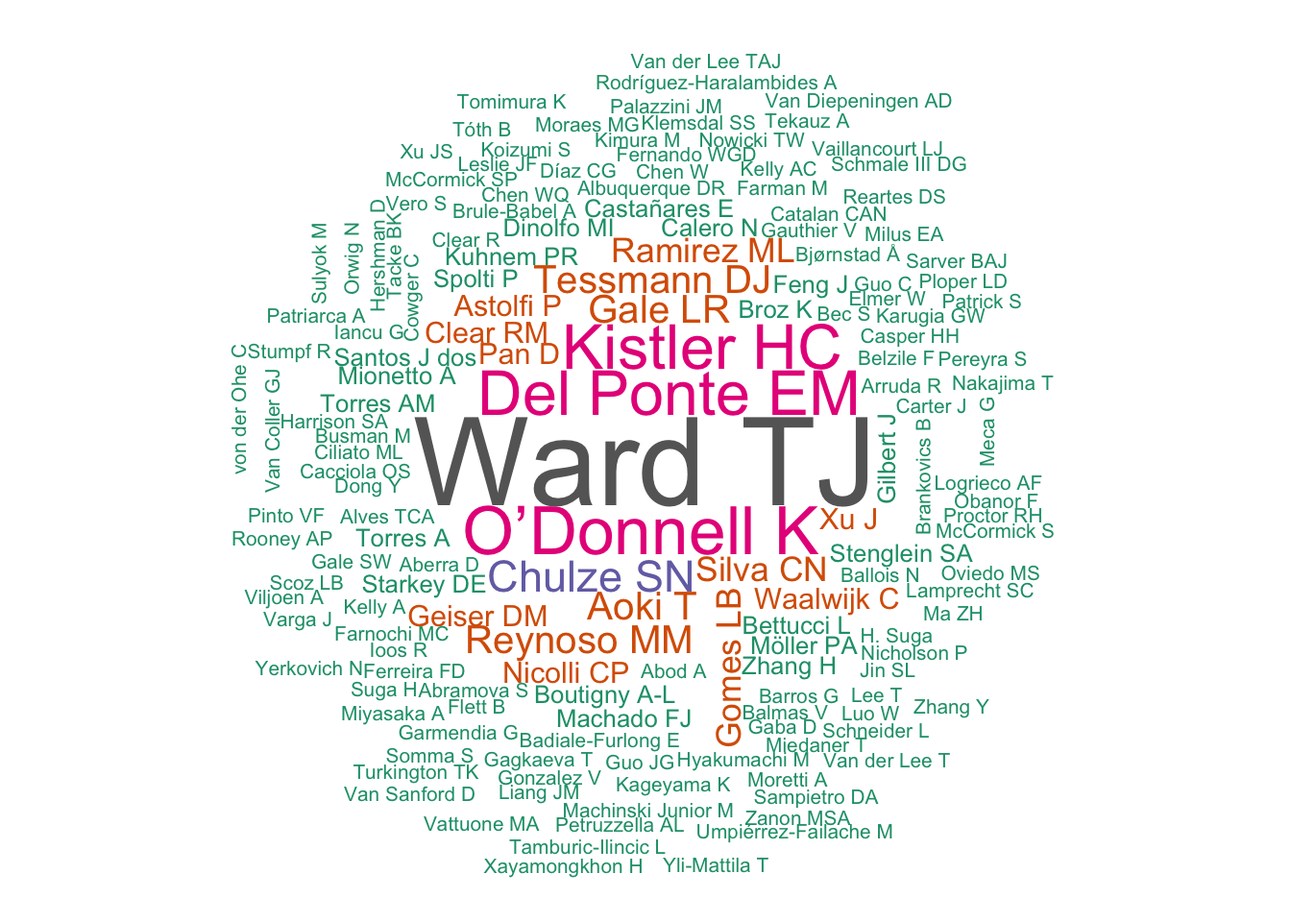
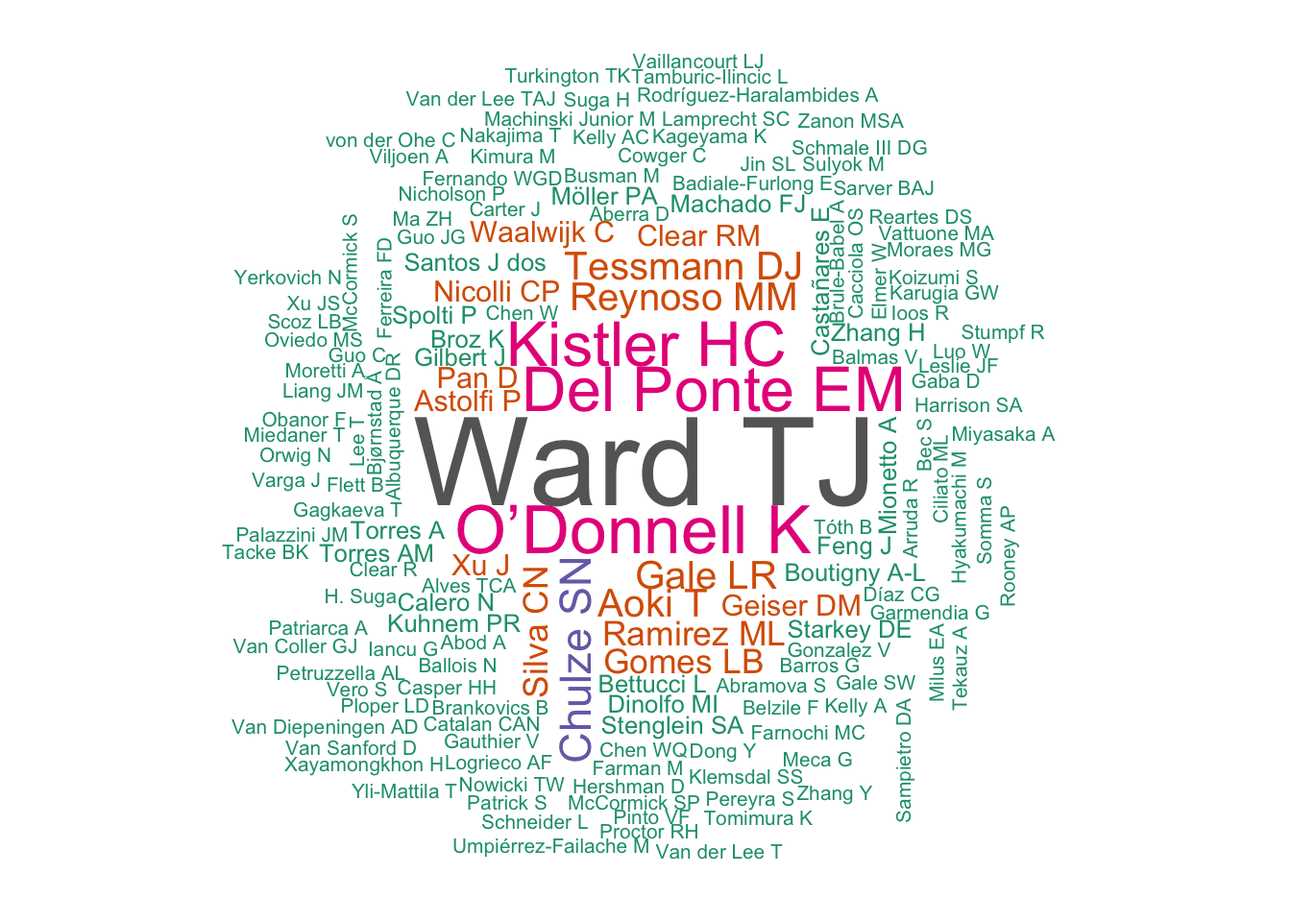
New site

Changed region(s): [[0.1562, 0.0625, 0.8125, 0.9688]]

diff --git a/website/network-FGSC.html b/website/network-FGSC.html
@@ -8,11 +8,11 @@
 </head>
 <body style="background-color:white;">
 <div id="htmlwidget_container">
-<div id="htmlwidget-a1290d3a42f0466f717e" class="forceNetwork html-widget" style="width:960px;height:500px;">
+<div id="htmlwidget-3ba6124009e966e28398" class="forceNetwork html-widget" style="width:960px;height:500px;">
 
 </div>
 </div>
-<script type="application/json" data-for="htmlwidget-a1290d3a42f0466f717e">{"x":{"links":{"source":[96,96,96,69,69,128,96,96,96,96,150,69,150,69,51,69,150,47,69,150,69,69,109,109,109,109,109,111,111,111,111,40,40,40,134,134,75,150,5,47,69,51,123,123,123,96,150,150,69,150,150,150,150,96,5,69,51,5,5,5,96,69,51,47,47,47,96,69,69,69,69,96,51,51,51,96,126,126,96,135,96,96,96,96,96,96,96,96,96,96,150,69,150,150,150,150,150,69,5,0,0,0,0,69,69,69,69,69,5,5,5,5,98,98,98,68,68,15,57,150,47,57,57,57,57,57,57,150,47,65,65,65,65,65,65,150,150,150,150,150,150,150,47,47,47,47,47,47,132,132,132,132,132,92,92,92,92,88,88,88,71,71,64,150,150,96,150,150,150,150,150,150,32,96,32,32,123,32,51,32,96,113,113,123,113,51,113,96,96,96,96,96,96,45,123,45,51,45,123,103,51,103,123,51,123,51,52,51,119,119,119,119,119,7,7,7,7,110,110,110,117,117,90,155,150,5,69,96,150,5,69,96,150,69,96,69,96,96,148,148,148,148,148,150,148,50,50,50,50,150,50,129,129,129,150,129,19,19,150,19,42,150,42,150,31,150,7,7,7,7,7,7,115,115,115,115,34,118,118,118,34,53,53,34,120,34,34,150,16,16,16,96,16,150,150,150,96,150,139,139,96,139,44,96,44,96,73,96,47,150,96,47,47,69,150,96,58,58,69,96,150,150,69,96,96,96,86,69,69,109,111,111,109,109,134,114,114,114,114,114,150,35,35,35,35,150,54,54,54,150,145,145,150,107,150,150,150,47,116,69,5,116,116,96,150,150,69,150,150,150,96,47,69,5,47,47,96,69,5,18,18,96,69,69,69,96,5,5,96,93,96,96,111,109,29,7,7,7,109,111,111,111,111,109,109,109,109,29,29,29,131,34,34,11,11,11,109,111,11,29,156,156,109,111,156,29,1,109,111,1,29,109,111,99,29,109,109,109,111,111,29,157,157,157,157,157,157,157,140,140,140,140,140,140,149,149,149,149,149,27,27,27,27,152,152,152,152,152,158,101,101,101,22,22,87,115,53,120,131,125,125,34,115,115,115,115,115,34,53,53,53,53,34,120,120,120,34,131,131,34,43,34,34,137,137,137,150,137,49,49,150,49,104,150,104,150,112,150,150,16,16,16,150,150,150,9,9,61,25,25,25,25,25,3,3,3,3,36,36,36,106,106,102,76,18,76,76,76,150,76,69,18,151,151,151,150,151,69,18,18,18,150,18,69,37,37,150,37,69,83,150,83,69,150,2,69,150,69,69,121,121,121,121,121,105,105,105,105,77,77,77,84,84,21,150,12,96,12,12,12,150,96,150,150,150,96,39,39,39,96,96,96,59,59,143,34,150,34,34,34,34,34,150,53,122,122,120,131,150,150,150,150,150,53,53,53,53,94,120,131,120,131,120,150,53,34,150,150,34,32,96,67,67,67,52,69,67,150,96,32,32,32,32,69,32,150,96,96,96,96,96,96,96,82,82,52,69,82,150,136,52,69,136,150,52,69,130,150,69,52,150,69,69,150,80,94,34,150,94,34,150,34,150,150,25,34,101,25,34,101,36,34,34,101,66,66,29,32,66,66,66,66,149,150,108,29,32,108,108,108,108,149,150,29,32,13,13,13,13,149,150,29,29,29,29,29,29,150,32,32,32,32,32,150,33,33,33,149,150,38,38,149,150,74,149,150,149,150,150,150,120,122,72,131,34,150,150,150,150,150,120,120,120,34,122,131,34,131,34,34,101,101,111,133,101,22,111,133,87,111,133,22,111,111,133,157,157,157,157,157,157,157,157,157,157,157,157,17,152,17,17,17,17,17,41,17,17,149,152,78,78,78,78,78,41,78,78,149,152,152,152,152,152,152,152,152,149,153,153,153,153,41,153,153,149,55,55,55,41,55,55,149,56,56,41,56,56,149,63,41,63,63,149,41,28,28,149,41,41,149,142,149,149,94,80,80,150,34,94,94,150,34,89,150,34,150,34,150,154,154,29,100,29,29],"target":[69,128,24,128,24,24,150,51,69,5,51,150,5,51,5,5,47,10,47,10,150,10,111,40,134,75,29,40,134,75,29,134,75,29,75,29,29,123,123,123,123,123,126,135,144,123,5,47,150,51,126,135,144,150,47,5,5,126,135,144,5,47,47,126,135,144,47,51,126,135,144,69,126,135,144,51,135,144,126,144,135,144,150,0,69,5,98,68,15,70,0,150,5,98,68,15,70,0,0,98,68,15,70,5,98,68,15,70,98,68,15,70,68,15,70,15,70,70,65,57,57,132,92,88,71,64,60,65,65,132,92,88,71,64,60,47,132,92,88,71,64,60,132,92,88,71,64,60,92,88,71,64,60,88,71,64,60,71,64,60,64,60,60,32,113,150,45,103,123,52,51,95,113,32,45,103,32,52,32,95,113,45,103,113,52,113,95,45,103,123,52,51,95,103,45,52,45,95,103,52,103,95,52,123,95,52,95,95,7,110,117,90,34,110,117,90,34,117,90,34,90,34,34,46,155,155,155,155,46,46,46,46,5,150,150,5,5,69,50,129,19,42,31,148,85,129,19,42,31,50,85,19,42,31,129,85,42,31,19,85,31,42,85,31,85,85,115,118,53,120,131,34,118,53,120,131,115,53,120,131,118,120,131,53,131,120,131,16,139,44,73,16,147,139,44,73,150,147,44,73,139,147,73,44,147,73,147,147,58,47,47,86,48,47,58,58,86,48,58,150,86,48,150,86,48,69,48,86,48,111,134,29,134,29,29,35,54,145,107,26,114,54,145,107,26,35,145,107,26,54,107,26,145,26,107,26,116,116,18,116,116,93,23,116,47,18,150,5,93,23,150,18,47,47,93,23,47,18,18,93,23,18,5,93,23,69,93,23,5,23,93,23,7,7,7,4,131,34,111,29,4,131,34,29,4,131,34,4,131,34,4,4,131,156,1,99,11,11,133,11,1,99,156,156,133,156,99,1,1,133,1,99,99,133,99,111,133,29,133,29,133,140,149,27,152,152,158,41,149,27,152,152,158,41,27,152,152,158,41,152,152,158,41,152,158,41,158,41,41,22,87,14,87,14,14,125,125,125,125,43,81,125,53,120,131,43,81,115,120,131,43,81,53,131,43,81,120,43,81,131,81,43,81,49,104,112,137,146,104,112,49,146,112,104,146,112,146,146,16,9,61,62,9,61,62,61,62,62,3,36,106,102,124,36,106,102,124,106,102,124,102,124,124,151,76,37,83,2,76,79,76,151,37,83,2,151,79,151,37,83,2,18,79,18,83,2,37,79,37,2,83,79,83,2,79,2,79,150,79,105,77,84,21,91,77,84,21,91,84,21,91,21,91,91,12,39,12,59,143,138,39,150,59,143,138,39,59,143,138,59,143,138,143,138,138,122,34,53,94,72,120,131,122,122,94,72,122,122,53,94,72,120,131,94,72,120,131,72,94,94,72,72,131,53,8,53,8,34,8,67,67,82,136,130,67,67,20,67,32,82,136,130,52,32,20,32,82,136,130,52,69,20,150,136,130,82,82,20,82,130,136,136,20,136,130,130,20,130,52,20,52,20,150,20,89,80,80,80,89,89,89,94,94,34,36,25,25,124,36,36,124,101,124,124,108,13,66,66,33,38,74,97,66,66,13,108,108,33,38,74,97,108,108,13,13,33,38,74,97,13,13,32,33,38,74,97,149,29,33,38,74,97,149,32,38,74,97,33,33,74,97,38,38,97,74,74,97,97,149,72,72,72,30,72,72,120,122,30,131,34,122,30,131,120,30,122,122,30,30,131,87,22,101,101,14,87,87,87,14,22,22,14,133,14,14,17,78,152,153,55,56,63,28,41,142,141,149,78,17,153,55,56,63,28,17,142,141,17,78,153,55,56,63,28,78,142,141,78,153,55,56,63,28,41,142,141,152,55,56,63,28,153,142,141,153,56,63,28,55,142,141,55,63,28,56,142,141,56,28,63,142,141,63,28,142,141,28,142,141,41,141,142,141,80,89,6,80,80,89,6,94,94,6,89,89,6,6,34,100,127,154,127,100,127],"value":[1,1,1,1,1,1,1,1,1,1,1,1,1,1,1,1,1,1,1,1,1,1,1,1,1,1,1,1,1,1,1,1,1,1,1,1,1,1,1,1,1,1,1,1,1,1,1,1,1,1,1,1,1,1,1,1,1,1,1,1,1,1,1,1,1,1,1,1,1,1,1,1,1,1,1,1,1,1,1,1,1,1,1,1,1,1,1,1,1,1,1,1,1,1,1,1,1,1,1,1,1,1,1,1,1,1,1,1,1,1,1,1,1,1,1,1,1,1,1,1,1,1,1,1,1,1,1,1,1,1,1,1,1,1,1,1,1,1,1,1,1,1,1,1,1,1,1,1,1,1,1,1,1,1,1,1,1,1,1,1,1,1,1,1,1,1,1,1,1,1,1,1,1,1,1,1,1,1,1,1,1,1,1,1,1,1,1,1,1,1,1,1,1,1,1,1,1,1,1,1,1,1,1,1,1,1,1,1,1,1,1,1,1,1,1,1,1,1,1,1,1,1,1,1,1,1,1,1,1,1,1,1,1,1,1,1,1,1,1,1,1,1,1,1,1,1,1,1,1,1,1,1,1,1,1,1,1,1,1,1,1,1,1,1,1,1,1,1,1,1,1,1,1,1,1,1,1,1,1,1,1,1,1,1,1,1,1,1,1,1,1,1,1,1,1,1,1,1,1,1,1,1,1,1,1,1,1,1,1,1,1,1,1,1,1,1,1,1,1,1,1,1,1,1,1,1,1,1,1,1,1,1,1,1,1,1,1,1,1,1,1,1,1,1,1,1,1,1,1,1,1,1,1,1,1,1,1,1,1,1,1,1,1,1,1,1,1,1,1,1,1,1,1,1,1,1,1,1,1,1,1,1,1,1,1,1,1,1,1,1,1,1,1,1,1,1,1,1,1,1,1,1,1,1,1,1,1,1,1,1,1,1,1,1,1,1,1,1,1,1,1,1,1,1,1,1,1,1,1,1,1,1,1,1,1,1,1,1,1,1,1,1,1,1,1,1,1,1,1,1,1,1,1,1,1,1,1,1,1,1,1,1,1,1,1,1,1,1,1,1,1,1,1,1,1,1,1,1,1,1,1,1,1,1,1,1,1,1,1,1,1,1,1,1,1,1,1,1,1,1,1,1,1,1,1,1,1,1,1,1,1,1,1,1,1,1,1,1,1,1,1,1,1,1,1,1,1,1,1,1,1,1,1,1,1,1,1,1,1,1,1,1,1,1,1,1,1,1,1,1,1,1,1,1,1,1,1,1,1,1,1,1,1,1,1,1,1,1,1,1,1,1,1,1,1,1,1,1,1,1,1,1,1,1,1,1,1,1,1,1,1,1,1,1,1,1,1,1,1,1,1,1,1,1,1,1,1,1,1,1,1,1,1,1,1,1,1,1,1,1,1,1,1,1,1,1,1,1,1,1,1,1,1,1,1,1,1,1,1,1,1,1,1,1,1,1,1,1,1,1,1,1,1,1,1,1,1,1,1,1,1,1,1,1,1,1,1,1,1,1,1,1,1,1,1,1,1,1,1,1,1,1,1,1,1,1,1,1,1,1,1,1,1,1,1,1,1,1,1,1,1,1,1,1,1,1,1,1,1,1,1,1,1,1,1,1,1,1,1,1,1,1,1,1,1,1,1,1,1,1,1,1,1,1,1,1,1,1,1,1,1,1,1,1,1,1,1,1,1,1,1,1,1,1,1,1,1,1,1,1,1,1,1,1,1,1,1,1,1,1,1,1,1,1,1,1,1,1,1,1,1,1,1,1,1,1,1,1,1,1,1,1,1,1,1,1,1,1,1,1,1,1,1,1,1,1,1,1,1,1,1,1,1,1,1,1,1,1,1,1,1,1,1,1,1,1,1,1,1,1,1,1,1,1,1,1,1,1,1,1,1,1,1,1,1,1,1,1,1,1,1,1,1,1,1,1,1,1,1,1,1,1,1,1,1,1,1,1,1,1,1,1,1,1,1,1,1,1,1,1,1,1,1,1,1,1,1,1,1,1,1,1,1,1,1,1,1,1,1,1,1,1,1,1],"colour":["lightgrey","lightgrey","lightgrey","lightgrey","lightgrey","lightgrey","lightgrey","lightgrey","lightgrey","lightgrey","lightgrey","lightgrey","lightgrey","lightgrey","lightgrey","lightgrey","lightgrey","lightgrey","lightgrey","lightgrey","lightgrey","lightgrey","lightgrey","lightgrey","lightgrey","lightgrey","lightgrey","lightgrey","lightgrey","lightgrey","lightgrey","lightgrey","lightgrey","lightgrey","lightgrey","lightgrey","lightgrey","lightgrey","lightgrey","lightgrey","lightgrey","lightgrey","lightgrey","lightgrey","lightgrey","lightgrey","lightgrey","lightgrey","lightgrey","lightgrey","lightgrey","lightgrey","lightgrey","lightgrey","lightgrey","lightgrey","lightgrey","lightgrey","lightgrey","lightgrey","lightgrey","lightgrey","lightgrey","lightgrey","lightgrey","lightgrey","lightgrey","lightgrey","lightgrey","lightgrey","lightgrey","lightgrey","lightgrey","lightgrey","lightgrey","lightgrey","lightgrey","lightgrey","lightgrey","lightgrey","lightgrey","lightgrey","lightgrey","lightgrey","lightgrey","lightgrey","lightgrey","lightgrey","lightgrey","lightgrey","lightgrey","lightgrey","lightgrey","lightgrey","lightgrey","lightgrey","lightgrey","lightgrey","lightgrey","lightgrey","lightgrey","lightgrey","lightgrey","lightgrey","lightgrey","lightgrey","lightgrey","lightgrey","lightgrey","lightgrey","lightgrey","lightgrey","lightgrey","lightgrey","lightgrey","lightgrey","lightgrey","lightgrey","lightgrey","lightgrey","lightgrey","lightgrey","lightgrey","lightgrey","lightgrey","lightgrey","lightgrey","lightgrey","lightgrey","lightgrey","lightgrey","lightgrey","lightgrey","lightgrey","lightgrey","lightgrey","lightgrey","lightgrey","lightgrey","lightgrey","lightgrey","lightgrey","lightgrey","lightgrey","lightgrey","lightgrey","lightgrey","lightgrey","lightgrey","lightgrey","lightgrey","lightgrey","lightgrey","lightgrey","lightgrey","lightgrey","lightgrey","lightgrey","lightgrey","lightgrey","lightgrey","lightgrey","lightgrey","lightgrey","lightgrey","lightgrey","lightgrey","lightgrey","lightgrey","lightgrey","lightgrey","lightgrey","lightgrey","lightgrey","lightgrey","lightgrey","lightgrey","lightgrey","lightgrey","lightgrey","lightgrey","lightgrey","lightgrey","lightgrey","lightgrey","lightgrey","lightgrey","lightgrey","lightgrey","lightgrey","lightgrey","lightgrey","lightgrey","lightgrey","lightgrey","lightgrey","lightgrey","lightgrey","lightgrey","lightgrey","lightgrey","lightgrey","lightgrey","lightgrey","lightgrey","lightgrey","lightgrey","lightgrey","lightgrey","lightgrey","lightgrey","lightgrey","lightgrey","lightgrey","lightgrey","lightgrey","lightgrey","lightgrey","lightgrey","lightgrey","lightgrey","lightgrey","lightgrey","lightgrey","lightgrey","lightgrey","lightgrey","lightgrey","lightgrey","lightgrey","lightgrey","lightgrey","lightgrey","lightgrey","lightgrey","lightgrey","lightgrey","lightgrey","lightgrey","lightgrey","lightgrey","lightgrey","lightgrey","lightgrey","lightgrey","lightgrey","lightgrey","lightgrey","lightgrey","lightgrey","lightgrey","lightgrey","lightgrey","lightgrey","lightgrey","lightgrey","lightgrey","lightgrey","lightgrey","lightgrey","lightgrey","lightgrey","lightgrey","lightgrey","lightgrey","lightgrey","lightgrey","lightgrey","lightgrey","lightgrey","lightgrey","lightgrey","lightgrey","lightgrey","lightgrey","lightgrey","lightgrey","lightgrey","lightgrey","lightgrey","lightgrey","lightgrey","lightgrey","lightgrey","lightgrey","lightgrey","lightgrey","lightgrey","lightgrey","lightgrey","lightgrey","lightgrey","lightgrey","lightgrey","lightgrey","lightgrey","lightgrey","lightgrey","lightgrey","lightgrey","lightgrey","lightgrey","lightgrey","lightgrey","lightgrey","lightgrey","lightgrey","lightgrey","lightgrey","lightgrey","lightgrey","lightgrey","lightgrey","lightgrey","lightgrey","lightgrey","lightgrey","lightgrey","lightgrey","lightgrey","lightgrey","lightgrey","lightgrey","lightgrey","lightgrey","lightgrey","lightgrey","lightgrey","lightgrey","lightgrey","lightgrey","lightgrey","lightgrey","lightgrey","lightgrey","lightgrey","lightgrey","lightgrey","lightgrey","lightgrey","lightgrey","lightgrey","lightgrey","lightgrey","lightgrey","lightgrey","lightgrey","lightgrey","lightgrey","lightgrey","lightgrey","lightgrey","lightgrey","lightgrey","lightgrey","lightgrey","lightgrey","lightgrey","lightgrey","lightgrey","lightgrey","lightgrey","lightgrey","lightgrey","lightgrey","lightgrey","lightgrey","lightgrey","lightgrey","lightgrey","lightgrey","lightgrey","lightgrey","lightgrey","lightgrey","lightgrey","lightgrey","lightgrey","lightgrey","lightgrey","lightgrey","lightgrey","lightgrey","lightgrey","lightgrey","lightgrey","lightgrey","lightgrey","lightgrey","lightgrey","lightgrey","lightgrey","lightgrey","lightgrey","lightgrey","lightgrey","lightgrey","lightgrey","lightgrey","lightgrey","lightgrey","lightgrey","lightgrey","lightgrey","lightgrey","lightgrey","lightgrey","lightgrey","lightgrey","lightgrey","lightgrey","lightgrey","lightgrey","lightgrey","lightgrey","lightgrey","lightgrey","lightgrey","lightgrey","lightgrey","lightgrey","lightgrey","lightgrey","lightgrey","lightgrey","lightgrey","lightgrey","lightgrey","lightgrey","lightgrey","lightgrey","lightgrey","lightgrey","lightgrey","lightgrey","lightgrey","lightgrey","lightgrey","lightgrey","lightgrey","lightgrey","lightgrey","lightgrey","lightgrey","lightgrey","lightgrey","lightgrey","lightgrey","lightgrey","lightgrey","lightgrey","lightgrey","lightgrey","lightgrey","lightgrey","lightgrey","lightgrey","lightgrey","lightgrey","lightgrey","lightgrey","lightgrey","lightgrey","lightgrey","lightgrey","lightgrey","lightgrey","lightgrey","lightgrey","lightgrey","lightgrey","lightgrey","lightgrey","lightgrey","lightgrey","lightgrey","lightgrey","lightgrey","lightgrey","lightgrey","lightgrey","lightgrey","lightgrey","lightgrey","lightgrey","lightgrey","lightgrey","lightgrey","lightgrey","lightgrey","lightgrey","lightgrey","lightgrey","lightgrey","lightgrey","lightgrey","lightgrey","lightgrey","lightgrey","lightgrey","lightgrey","lightgrey","lightgrey","lightgrey","lightgrey","lightgrey","lightgrey","lightgrey","lightgrey","lightgrey","lightgrey","lightgrey","lightgrey","lightgrey","lightgrey","lightgrey","lightgrey","lightgrey","lightgrey","lightgrey","lightgrey","lightgrey","lightgrey","lightgrey","lightgrey","lightgrey","lightgrey","lightgrey","lightgrey","lightgrey","lightgrey","lightgrey","lightgrey","lightgrey","lightgrey","lightgrey","lightgrey","lightgrey","lightgrey","lightgrey","lightgrey","lightgrey","lightgrey","lightgrey","lightgrey","lightgrey","lightgrey","lightgrey","lightgrey","lightgrey","lightgrey","lightgrey","lightgrey","lightgrey","lightgrey","lightgrey","lightgrey","lightgrey","lightgrey","lightgrey","lightgrey","lightgrey","lightgrey","lightgrey","lightgrey","lightgrey","lightgrey","lightgrey","lightgrey","lightgrey","lightgrey","lightgrey","lightgrey","lightgrey","lightgrey","lightgrey","lightgrey","lightgrey","lightgrey","lightgrey","lightgrey","lightgrey","lightgrey","lightgrey","lightgrey","lightgrey","lightgrey","lightgrey","lightgrey","lightgrey","lightgrey","lightgrey","lightgrey","lightgrey","lightgrey","lightgrey","lightgrey","lightgrey","lightgrey","lightgrey","lightgrey","lightgrey","lightgrey","lightgrey","lightgrey","lightgrey","lightgrey","lightgrey","lightgrey","lightgrey","lightgrey","lightgrey","lightgrey","lightgrey","lightgrey","lightgrey","lightgrey","lightgrey","lightgrey","lightgrey","lightgrey","lightgrey","lightgrey","lightgrey","lightgrey","lightgrey","lightgrey","lightgrey","lightgrey","lightgrey","lightgrey","lightgrey","lightgrey","lightgrey","lightgrey","lightgrey","lightgrey","lightgrey","lightgrey","lightgrey","lightgrey","lightgrey","lightgrey","lightgrey","lightgrey","lightgrey","lightgrey","lightgrey","lightgrey","lightgrey","lightgrey","lightgrey","lightgrey","lightgrey","lightgrey","lightgrey","lightgrey","lightgrey","lightgrey","lightgrey","lightgrey","lightgrey","lightgrey","lightgrey","lightgrey","lightgrey","lightgrey","lightgrey","lightgrey","lightgrey","lightgrey","lightgrey","lightgrey","lightgrey","lightgrey","lightgrey","lightgrey","lightgrey","lightgrey","lightgrey","lightgrey","lightgrey","lightgrey","lightgrey","lightgrey","lightgrey","lightgrey","lightgrey","lightgrey","lightgrey","lightgrey","lightgrey","lightgrey","lightgrey","lightgrey","lightgrey","lightgrey","lightgrey","lightgrey","lightgrey","lightgrey","lightgrey","lightgrey","lightgrey","lightgrey","lightgrey","lightgrey","lightgrey","lightgrey","lightgrey","lightgrey","lightgrey","lightgrey","lightgrey","lightgrey","lightgrey","lightgrey","lightgrey","lightgrey","lightgrey","lightgrey","lightgrey","lightgrey","lightgrey","lightgrey","lightgrey","lightgrey","lightgrey","lightgrey","lightgrey","lightgrey","lightgrey","lightgrey","lightgrey","lightgrey","lightgrey","lightgrey","lightgrey","lightgrey","lightgrey","lightgrey","lightgrey","lightgrey","lightgrey","lightgrey","lightgrey","lightgrey","lightgrey","lightgrey","lightgrey","lightgrey","lightgrey","lightgrey","lightgrey","lightgrey","lightgrey","lightgrey","lightgrey","lightgrey","lightgrey","lightgrey","lightgrey","lightgrey","lightgrey","lightgrey","lightgrey","lightgrey","lightgrey","lightgrey","lightgrey","lightgrey","lightgrey","lightgrey","lightgrey","lightgrey","lightgrey","lightgrey","lightgrey","lightgrey","lightgrey","lightgrey","lightgrey","lightgrey","lightgrey","lightgrey","lightgrey","lightgrey","lightgrey","lightgrey","lightgrey","lightgrey","lightgrey","lightgrey","lightgrey","lightgrey","lightgrey","lightgrey","lightgrey","lightgrey","lightgrey","lightgrey","lightgrey","lightgrey","lightgrey","lightgrey","lightgrey","lightgrey","lightgrey","lightgrey","lightgrey","lightgrey","lightgrey","lightgrey","lightgrey","lightgrey","lightgrey","lightgrey","lightgrey","lightgrey","lightgrey","lightgrey","lightgrey","lightgrey","lightgrey","lightgrey","lightgrey","lightgrey","lightgrey","lightgrey","lightgrey","lightgrey","lightgrey","lightgrey","lightgrey","lightgrey","lightgrey","lightgrey","lightgrey","lightgrey","lightgrey","lightgrey","lightgrey","lightgrey","lightgrey","lightgrey","lightgrey","lightgrey","lightgrey","lightgrey","lightgrey","lightgrey","lightgrey","lightgrey","lightgrey","lightgrey","lightgrey","lightgrey","lightgrey","lightgrey","lightgrey","lightgrey","lightgrey","lightgrey","lightgrey","lightgrey","lightgrey","lightgrey","lightgrey","lightgrey","lightgrey","lightgrey","lightgrey","lightgrey","lightgrey","lightgrey","lightgrey","lightgrey","lightgrey","lightgrey","lightgrey","lightgrey","lightgrey","lightgrey","lightgrey","lightgrey","lightgrey","lightgrey","lightgrey","lightgrey","lightgrey","lightgrey","lightgrey","lightgrey","lightgrey","lightgrey","lightgrey","lightgrey","lightgrey","lightgrey","lightgrey","lightgrey","lightgrey","lightgrey","lightgrey"]},"nodes":{"name":["Aberra D","Abod A","Abramova S","Albuquerque DR","Alves TCA","Aoki T","Arruda R","Astolfi P","Badiale-Furlong E","Ballois N","Balmas V","Barros G","Bec S","Belzile F","Bettucci L","Bjørnstad Å","Boutigny A-L","Brankovics B","Broz K","Brule-Babel A","Busman M","Cacciola OS","Calero N","Carter J","Casper HH","Castañares E","Catalan CAN","Chen W","Chen WQ","Chulze SN","Ciliato ML","Clear R","Clear RM","Cowger C","Del Ponte EM","Díaz CG","Dinolfo MI","Dong Y","Elmer W","Farman M","Farnochi MC","Feng J","Fernando WGD","Ferreira FD","Flett B","Gaba D","Gagkaeva T","Gale LR","Gale SW","Garmendia G","Gauthier V","Geiser DM","Gilbert J","Gomes LB","Gonzalez V","Guo C","Guo JG","H. Suga","Harrison SA","Hershman D","Hyakumachi M","Iancu G","Ioos R","Jin SL","Kageyama K","Karugia GW","Kelly A","Kelly AC","Kimura M","Kistler HC","Klemsdal SS","Koizumi S","Kuhnem PR","Lamprecht SC","Lee T","Leslie JF","Liang JM","Logrieco AF","Luo W","Ma ZH","Machado FJ","Machinski Junior M","McCormick S","McCormick SP","Meca G","Miedaner T","Milus EA","Mionetto A","Miyasaka A","Möller PA","Moraes MG","Moretti A","Nakajima T","Nicholson P","Nicolli CP","Nowicki TW","O’Donnell K","Obanor F","Orwig N","Oviedo MS","Palazzini JM","Pan D","Patriarca A","Patrick S","Pereyra S","Petruzzella AL","Pinto VF","Ploper LD","Proctor RH","Ramirez ML","Reartes DS","Reynoso MM","Rodríguez-Haralambides A","Rooney AP","Sampietro DA","Santos J dos","Sarver BAJ","Schmale III DG","Schneider L","Scoz LB","Silva CN","Somma S","Spolti P","Starkey DE","Stenglein SA","Stumpf R","Suga H","Sulyok M","Tacke BK","Tamburic-Ilincic L","Tekauz A","Tessmann DJ","Tomimura K","Torres A","Torres AM","Tóth B","Turkington TK","Umpiérrez-Failache M","Vaillancourt LJ","Van Coller GJ","Van der Lee T","Van der Lee TAJ","Van Diepeningen AD","Van Sanford D","Varga J","Vattuone MA","Vero S","Viljoen A","von der Ohe C","Waalwijk C","Ward TJ","Xayamongkhon H","Xu J","Xu JS","Yerkovich N","Yli-Mattila T","Zanon MSA","Zhang H","Zhang Y"],"group":[1,1,1,1,1,1,1,1,1,1,1,1,1,1,1,1,1,1,1,1,1,1,1,1,1,1,1,1,1,1,1,1,1,1,1,1,1,1,1,1,1,1,1,1,1,1,1,1,1,1,1,1,1,1,1,1,1,1,1,1,1,1,1,1,1,1,1,1,1,1,1,1,1,1,1,1,1,1,1,1,1,1,1,1,1,1,1,1,1,1,1,1,1,1,1,1,1,1,1,1,1,1,1,1,1,1,1,1,1,1,1,1,1,1,1,1,1,1,1,1,1,1,1,1,1,1,1,1,1,1,1,1,1,1,1,1,1,1,1,1,1,1,1,1,1,1,1,1,1,1,1,1,1,1,1,1,1,1,1],"nodesize":[8,8,8,8,8,8,8,8,8,8,8,8,8,8,8,8,8,8,8,8,8,8,8,8,8,8,8,8,8,8,8,8,8,8,8,8,8,8,8,8,8,8,8,8,8,8,8,8,8,8,8,8,8,8,8,8,8,8,8,8,8,8,8,8,8,8,8,8,8,8,8,8,8,8,8,8,8,8,8,8,8,8,8,8,8,8,8,8,8,8,8,8,8,8,8,8,8,8,8,8,8,8,8,8,8,8,8,8,8,8,8,8,8,8,8,8,8,8,8,8,8,8,8,8,8,8,8,8,8,8,8,8,8,8,8,8,8,8,8,8,8,8,8,8,8,8,8,8,8,8,8,8,8,8,8,8,8,8,8]},"options":{"NodeID":"name","Group":"group","colourScale":"d3.scaleOrdinal(['black'])","fontSize":13,"fontFamily":"Arial","clickTextSize":32.5,"linkDistance":80,"linkWidth":"'1.5px'.toString()","charge":-200,"opacity":1,"zoom":true,"legend":false,"arrows":false,"nodesize":true,"radiusCalculation":"d.nodesize","bounded":false,"opacityNoHover":1,"clickAction":null}},"evals":[],"jsHooks":[]}</script>
-<script type="application/htmlwidget-sizing" data-for="htmlwidget-a1290d3a42f0466f717e">{"viewer":{"width":450,"height":350,"padding":10,"fill":true},"browser":{"width":960,"height":500,"padding":10,"fill":true}}</script>
+<script type="application/json" data-for="htmlwidget-3ba6124009e966e28398">{"x":{"links":{"source":[96,96,96,69,69,128,96,96,96,96,150,69,150,69,51,69,150,47,69,150,69,69,109,109,109,109,109,111,111,111,111,40,40,40,134,134,75,150,5,47,69,51,123,123,123,96,150,150,69,150,150,150,150,96,5,69,51,5,5,5,96,69,51,47,47,47,96,69,69,69,69,96,51,51,51,96,126,126,96,135,96,96,96,96,96,96,96,96,96,96,150,69,150,150,150,150,150,69,5,0,0,0,0,69,69,69,69,69,5,5,5,5,98,98,98,68,68,15,57,150,47,57,57,57,57,57,57,150,47,65,65,65,65,65,65,150,150,150,150,150,150,150,47,47,47,47,47,47,132,132,132,132,132,92,92,92,92,88,88,88,71,71,64,150,150,96,150,150,150,150,150,150,32,96,32,32,123,32,51,32,96,113,113,123,113,51,113,96,96,96,96,96,96,45,123,45,51,45,123,103,51,103,123,51,123,51,52,51,119,119,119,119,119,7,7,7,7,110,110,110,117,117,90,155,150,5,69,96,150,5,69,96,150,69,96,69,96,96,148,148,148,148,148,150,148,50,50,50,50,150,50,129,129,129,150,129,19,19,150,19,42,150,42,150,31,150,7,7,7,7,7,7,115,115,115,115,34,118,118,118,34,53,53,34,120,34,34,150,16,16,16,96,16,150,150,150,96,150,139,139,96,139,44,96,44,96,73,96,47,150,96,47,47,69,150,96,58,58,69,96,150,150,69,96,96,96,86,69,69,109,111,111,109,109,134,114,114,114,114,114,150,35,35,35,35,150,54,54,54,150,145,145,150,107,150,150,150,47,116,69,5,116,116,96,150,150,69,150,150,150,96,47,69,5,47,47,96,69,5,18,18,96,69,69,69,96,5,5,96,93,96,96,111,109,29,7,7,7,109,111,111,111,111,109,109,109,109,29,29,29,131,34,34,11,11,11,109,111,11,29,156,156,109,111,156,29,1,109,111,1,29,109,111,99,29,109,109,109,111,111,29,157,157,157,157,157,157,157,140,140,140,140,140,140,149,149,149,149,149,27,27,27,27,152,152,152,152,152,158,101,101,101,22,22,87,115,53,120,131,125,125,34,115,115,115,115,115,34,53,53,53,53,34,120,120,120,34,131,131,34,43,34,34,137,137,137,150,137,49,49,150,49,104,150,104,150,112,150,150,16,16,16,150,150,150,9,9,61,25,25,25,25,25,3,3,3,3,36,36,36,106,106,102,76,18,76,76,76,150,76,69,18,151,151,151,150,151,69,18,18,18,150,18,69,37,37,150,37,69,83,150,83,69,150,2,69,150,69,69,121,121,121,121,121,105,105,105,105,77,77,77,84,84,21,150,12,96,12,12,12,150,96,150,150,150,96,39,39,39,96,96,96,59,59,143,34,150,34,34,34,34,34,150,53,122,122,120,131,150,150,150,150,150,53,53,53,53,94,120,131,120,131,120,150,53,34,150,150,34,32,96,67,67,67,52,69,67,150,96,32,32,32,32,69,32,150,96,96,96,96,96,96,96,82,82,52,69,82,150,136,52,69,136,150,52,69,130,150,69,52,150,69,69,150,80,94,34,150,94,34,150,34,150,150,25,34,101,25,34,101,36,34,34,101,66,66,29,32,66,66,66,66,149,150,108,29,32,108,108,108,108,149,150,29,32,13,13,13,13,149,150,29,29,29,29,29,29,150,32,32,32,32,32,150,33,33,33,149,150,38,38,149,150,74,149,150,149,150,150,150,120,122,72,131,34,150,150,150,150,150,120,120,120,34,122,131,34,131,34,34,101,101,111,133,101,22,111,133,87,111,133,22,111,111,133,157,157,157,157,157,157,157,157,157,157,157,157,17,152,17,17,17,17,17,41,17,17,149,152,78,78,78,78,78,41,78,78,149,152,152,152,152,152,152,152,152,149,153,153,153,153,41,153,153,149,55,55,55,41,55,55,149,56,56,41,56,56,149,63,41,63,63,149,41,28,28,149,41,41,149,142,149,149,94,80,80,150,34,94,94,150,34,89,150,34,150,34,150,154,154,29,100,29,29],"target":[69,128,24,128,24,24,150,51,69,5,51,150,5,51,5,5,47,10,47,10,150,10,111,40,134,75,29,40,134,75,29,134,75,29,75,29,29,123,123,123,123,123,126,135,144,123,5,47,150,51,126,135,144,150,47,5,5,126,135,144,5,47,47,126,135,144,47,51,126,135,144,69,126,135,144,51,135,144,126,144,135,144,150,0,69,5,98,68,15,70,0,150,5,98,68,15,70,0,0,98,68,15,70,5,98,68,15,70,98,68,15,70,68,15,70,15,70,70,65,57,57,132,92,88,71,64,60,65,65,132,92,88,71,64,60,47,132,92,88,71,64,60,132,92,88,71,64,60,92,88,71,64,60,88,71,64,60,71,64,60,64,60,60,32,113,150,45,103,123,52,51,95,113,32,45,103,32,52,32,95,113,45,103,113,52,113,95,45,103,123,52,51,95,103,45,52,45,95,103,52,103,95,52,123,95,52,95,95,7,110,117,90,34,110,117,90,34,117,90,34,90,34,34,46,155,155,155,155,46,46,46,46,5,150,150,5,5,69,50,129,19,42,31,148,85,129,19,42,31,50,85,19,42,31,129,85,42,31,19,85,31,42,85,31,85,85,115,118,53,120,131,34,118,53,120,131,115,53,120,131,118,120,131,53,131,120,131,16,139,44,73,16,147,139,44,73,150,147,44,73,139,147,73,44,147,73,147,147,58,47,47,86,48,47,58,58,86,48,58,150,86,48,150,86,48,69,48,86,48,111,134,29,134,29,29,35,54,145,107,26,114,54,145,107,26,35,145,107,26,54,107,26,145,26,107,26,116,116,18,116,116,93,23,116,47,18,150,5,93,23,150,18,47,47,93,23,47,18,18,93,23,18,5,93,23,69,93,23,5,23,93,23,7,7,7,4,131,34,111,29,4,131,34,29,4,131,34,4,131,34,4,4,131,156,1,99,11,11,133,11,1,99,156,156,133,156,99,1,1,133,1,99,99,133,99,111,133,29,133,29,133,140,149,27,152,152,158,41,149,27,152,152,158,41,27,152,152,158,41,152,152,158,41,152,158,41,158,41,41,22,87,14,87,14,14,125,125,125,125,43,81,125,53,120,131,43,81,115,120,131,43,81,53,131,43,81,120,43,81,131,81,43,81,49,104,112,137,146,104,112,49,146,112,104,146,112,146,146,16,9,61,62,9,61,62,61,62,62,3,36,106,102,124,36,106,102,124,106,102,124,102,124,124,151,76,37,83,2,76,79,76,151,37,83,2,151,79,151,37,83,2,18,79,18,83,2,37,79,37,2,83,79,83,2,79,2,79,150,79,105,77,84,21,91,77,84,21,91,84,21,91,21,91,91,12,39,12,59,143,138,39,150,59,143,138,39,59,143,138,59,143,138,143,138,138,122,34,53,94,72,120,131,122,122,94,72,122,122,53,94,72,120,131,94,72,120,131,72,94,94,72,72,131,53,8,53,8,34,8,67,67,82,136,130,67,67,20,67,32,82,136,130,52,32,20,32,82,136,130,52,69,20,150,136,130,82,82,20,82,130,136,136,20,136,130,130,20,130,52,20,52,20,150,20,89,80,80,80,89,89,89,94,94,34,36,25,25,124,36,36,124,101,124,124,108,13,66,66,33,38,74,97,66,66,13,108,108,33,38,74,97,108,108,13,13,33,38,74,97,13,13,32,33,38,74,97,149,29,33,38,74,97,149,32,38,74,97,33,33,74,97,38,38,97,74,74,97,97,149,72,72,72,30,72,72,120,122,30,131,34,122,30,131,120,30,122,122,30,30,131,87,22,101,101,14,87,87,87,14,22,22,14,133,14,14,17,78,152,153,55,56,63,28,41,142,141,149,78,17,153,55,56,63,28,17,142,141,17,78,153,55,56,63,28,78,142,141,78,153,55,56,63,28,41,142,141,152,55,56,63,28,153,142,141,153,56,63,28,55,142,141,55,63,28,56,142,141,56,28,63,142,141,63,28,142,141,28,142,141,41,141,142,141,80,89,6,80,80,89,6,94,94,6,89,89,6,6,34,100,127,154,127,100,127],"value":[1,1,1,1,1,1,1,1,1,1,1,1,1,1,1,1,1,1,1,1,1,1,1,1,1,1,1,1,1,1,1,1,1,1,1,1,1,1,1,1,1,1,1,1,1,1,1,1,1,1,1,1,1,1,1,1,1,1,1,1,1,1,1,1,1,1,1,1,1,1,1,1,1,1,1,1,1,1,1,1,1,1,1,1,1,1,1,1,1,1,1,1,1,1,1,1,1,1,1,1,1,1,1,1,1,1,1,1,1,1,1,1,1,1,1,1,1,1,1,1,1,1,1,1,1,1,1,1,1,1,1,1,1,1,1,1,1,1,1,1,1,1,1,1,1,1,1,1,1,1,1,1,1,1,1,1,1,1,1,1,1,1,1,1,1,1,1,1,1,1,1,1,1,1,1,1,1,1,1,1,1,1,1,1,1,1,1,1,1,1,1,1,1,1,1,1,1,1,1,1,1,1,1,1,1,1,1,1,1,1,1,1,1,1,1,1,1,1,1,1,1,1,1,1,1,1,1,1,1,1,1,1,1,1,1,1,1,1,1,1,1,1,1,1,1,1,1,1,1,1,1,1,1,1,1,1,1,1,1,1,1,1,1,1,1,1,1,1,1,1,1,1,1,1,1,1,1,1,1,1,1,1,1,1,1,1,1,1,1,1,1,1,1,1,1,1,1,1,1,1,1,1,1,1,1,1,1,1,1,1,1,1,1,1,1,1,1,1,1,1,1,1,1,1,1,1,1,1,1,1,1,1,1,1,1,1,1,1,1,1,1,1,1,1,1,1,1,1,1,1,1,1,1,1,1,1,1,1,1,1,1,1,1,1,1,1,1,1,1,1,1,1,1,1,1,1,1,1,1,1,1,1,1,1,1,1,1,1,1,1,1,1,1,1,1,1,1,1,1,1,1,1,1,1,1,1,1,1,1,1,1,1,1,1,1,1,1,1,1,1,1,1,1,1,1,1,1,1,1,1,1,1,1,1,1,1,1,1,1,1,1,1,1,1,1,1,1,1,1,1,1,1,1,1,1,1,1,1,1,1,1,1,1,1,1,1,1,1,1,1,1,1,1,1,1,1,1,1,1,1,1,1,1,1,1,1,1,1,1,1,1,1,1,1,1,1,1,1,1,1,1,1,1,1,1,1,1,1,1,1,1,1,1,1,1,1,1,1,1,1,1,1,1,1,1,1,1,1,1,1,1,1,1,1,1,1,1,1,1,1,1,1,1,1,1,1,1,1,1,1,1,1,1,1,1,1,1,1,1,1,1,1,1,1,1,1,1,1,1,1,1,1,1,1,1,1,1,1,1,1,1,1,1,1,1,1,1,1,1,1,1,1,1,1,1,1,1,1,1,1,1,1,1,1,1,1,1,1,1,1,1,1,1,1,1,1,1,1,1,1,1,1,1,1,1,1,1,1,1,1,1,1,1,1,1,1,1,1,1,1,1,1,1,1,1,1,1,1,1,1,1,1,1,1,1,1,1,1,1,1,1,1,1,1,1,1,1,1,1,1,1,1,1,1,1,1,1,1,1,1,1,1,1,1,1,1,1,1,1,1,1,1,1,1,1,1,1,1,1,1,1,1,1,1,1,1,1,1,1,1,1,1,1,1,1,1,1,1,1,1,1,1,1,1,1,1,1,1,1,1,1,1,1,1,1,1,1,1,1,1,1,1,1,1,1,1,1,1,1,1,1,1,1,1,1,1,1,1,1,1,1,1,1,1,1,1,1,1,1,1,1,1,1,1,1,1,1,1,1,1,1,1,1,1,1,1,1,1,1,1,1,1,1,1,1,1,1,1,1,1,1,1,1,1,1,1,1,1,1,1,1,1,1,1,1,1,1,1,1,1,1,1,1,1,1,1,1,1,1,1,1,1,1,1,1,1,1,1,1,1,1,1,1,1,1,1,1,1,1,1,1,1,1,1,1,1,1,1,1,1,1,1,1,1,1,1,1,1,1,1,1,1,1,1,1,1,1,1,1,1,1,1,1,1,1,1,1,1,1,1,1,1,1,1,1,1,1,1,1,1,1,1,1,1],"colour":["lightgrey","lightgrey","lightgrey","lightgrey","lightgrey","lightgrey","lightgrey","lightgrey","lightgrey","lightgrey","lightgrey","lightgrey","lightgrey","lightgrey","lightgrey","lightgrey","lightgrey","lightgrey","lightgrey","lightgrey","lightgrey","lightgrey","lightgrey","lightgrey","lightgrey","lightgrey","lightgrey","lightgrey","lightgrey","lightgrey","lightgrey","lightgrey","lightgrey","lightgrey","lightgrey","lightgrey","lightgrey","lightgrey","lightgrey","lightgrey","lightgrey","lightgrey","lightgrey","lightgrey","lightgrey","lightgrey","lightgrey","lightgrey","lightgrey","lightgrey","lightgrey","lightgrey","lightgrey","lightgrey","lightgrey","lightgrey","lightgrey","lightgrey","lightgrey","lightgrey","lightgrey","lightgrey","lightgrey","lightgrey","lightgrey","lightgrey","lightgrey","lightgrey","lightgrey","lightgrey","lightgrey","lightgrey","lightgrey","lightgrey","lightgrey","lightgrey","lightgrey","lightgrey","lightgrey","lightgrey","lightgrey","lightgrey","lightgrey","lightgrey","lightgrey","lightgrey","lightgrey","lightgrey","lightgrey","lightgrey","lightgrey","lightgrey","lightgrey","lightgrey","lightgrey","lightgrey","lightgrey","lightgrey","lightgrey","lightgrey","lightgrey","lightgrey","lightgrey","lightgrey","lightgrey","lightgrey","lightgrey","lightgrey","lightgrey","lightgrey","lightgrey","lightgrey","lightgrey","lightgrey","lightgrey","lightgrey","lightgrey","lightgrey","lightgrey","lightgrey","lightgrey","lightgrey","lightgrey","lightgrey","lightgrey","lightgrey","lightgrey","lightgrey","lightgrey","lightgrey","lightgrey","lightgrey","lightgrey","lightgrey","lightgrey","lightgrey","lightgrey","lightgrey","lightgrey","lightgrey","lightgrey","lightgrey","lightgrey","lightgrey","lightgrey","lightgrey","lightgrey","lightgrey","lightgrey","lightgrey","lightgrey","lightgrey","lightgrey","lightgrey","lightgrey","lightgrey","lightgrey","lightgrey","lightgrey","lightgrey","lightgrey","lightgrey","lightgrey","lightgrey","lightgrey","lightgrey","lightgrey","lightgrey","lightgrey","lightgrey","lightgrey","lightgrey","lightgrey","lightgrey","lightgrey","lightgrey","lightgrey","lightgrey","lightgrey","lightgrey","lightgrey","lightgrey","lightgrey","lightgrey","lightgrey","lightgrey","lightgrey","lightgrey","lightgrey","lightgrey","lightgrey","lightgrey","lightgrey","lightgrey","lightgrey","lightgrey","lightgrey","lightgrey","lightgrey","lightgrey","lightgrey","lightgrey","lightgrey","lightgrey","lightgrey","lightgrey","lightgrey","lightgrey","lightgrey","lightgrey","lightgrey","lightgrey","lightgrey","lightgrey","lightgrey","lightgrey","lightgrey","lightgrey","lightgrey","lightgrey","lightgrey","lightgrey","lightgrey","lightgrey","lightgrey","lightgrey","lightgrey","lightgrey","lightgrey","lightgrey","lightgrey","lightgrey","lightgrey","lightgrey","lightgrey","lightgrey","lightgrey","lightgrey","lightgrey","lightgrey","lightgrey","lightgrey","lightgrey","lightgrey","lightgrey","lightgrey","lightgrey","lightgrey","lightgrey","lightgrey","lightgrey","lightgrey","lightgrey","lightgrey","lightgrey","lightgrey","lightgrey","lightgrey","lightgrey","lightgrey","lightgrey","lightgrey","lightgrey","lightgrey","lightgrey","lightgrey","lightgrey","lightgrey","lightgrey","lightgrey","lightgrey","lightgrey","lightgrey","lightgrey","lightgrey","lightgrey","lightgrey","lightgrey","lightgrey","lightgrey","lightgrey","lightgrey","lightgrey","lightgrey","lightgrey","lightgrey","lightgrey","lightgrey","lightgrey","lightgrey","lightgrey","lightgrey","lightgrey","lightgrey","lightgrey","lightgrey","lightgrey","lightgrey","lightgrey","lightgrey","lightgrey","lightgrey","lightgrey","lightgrey","lightgrey","lightgrey","lightgrey","lightgrey","lightgrey","lightgrey","lightgrey","lightgrey","lightgrey","lightgrey","lightgrey","lightgrey","lightgrey","lightgrey","lightgrey","lightgrey","lightgrey","lightgrey","lightgrey","lightgrey","lightgrey","lightgrey","lightgrey","lightgrey","lightgrey","lightgrey","lightgrey","lightgrey","lightgrey","lightgrey","lightgrey","lightgrey","lightgrey","lightgrey","lightgrey","lightgrey","lightgrey","lightgrey","lightgrey","lightgrey","lightgrey","lightgrey","lightgrey","lightgrey","lightgrey","lightgrey","lightgrey","lightgrey","lightgrey","lightgrey","lightgrey","lightgrey","lightgrey","lightgrey","lightgrey","lightgrey","lightgrey","lightgrey","lightgrey","lightgrey","lightgrey","lightgrey","lightgrey","lightgrey","lightgrey","lightgrey","lightgrey","lightgrey","lightgrey","lightgrey","lightgrey","lightgrey","lightgrey","lightgrey","lightgrey","lightgrey","lightgrey","lightgrey","lightgrey","lightgrey","lightgrey","lightgrey","lightgrey","lightgrey","lightgrey","lightgrey","lightgrey","lightgrey","lightgrey","lightgrey","lightgrey","lightgrey","lightgrey","lightgrey","lightgrey","lightgrey","lightgrey","lightgrey","lightgrey","lightgrey","lightgrey","lightgrey","lightgrey","lightgrey","lightgrey","lightgrey","lightgrey","lightgrey","lightgrey","lightgrey","lightgrey","lightgrey","lightgrey","lightgrey","lightgrey","lightgrey","lightgrey","lightgrey","lightgrey","lightgrey","lightgrey","lightgrey","lightgrey","lightgrey","lightgrey","lightgrey","lightgrey","lightgrey","lightgrey","lightgrey","lightgrey","lightgrey","lightgrey","lightgrey","lightgrey","lightgrey","lightgrey","lightgrey","lightgrey","lightgrey","lightgrey","lightgrey","lightgrey","lightgrey","lightgrey","lightgrey","lightgrey","lightgrey","lightgrey","lightgrey","lightgrey","lightgrey","lightgrey","lightgrey","lightgrey","lightgrey","lightgrey","lightgrey","lightgrey","lightgrey","lightgrey","lightgrey","lightgrey","lightgrey","lightgrey","lightgrey","lightgrey","lightgrey","lightgrey","lightgrey","lightgrey","lightgrey","lightgrey","lightgrey","lightgrey","lightgrey","lightgrey","lightgrey","lightgrey","lightgrey","lightgrey","lightgrey","lightgrey","lightgrey","lightgrey","lightgrey","lightgrey","lightgrey","lightgrey","lightgrey","lightgrey","lightgrey","lightgrey","lightgrey","lightgrey","lightgrey","lightgrey","lightgrey","lightgrey","lightgrey","lightgrey","lightgrey","lightgrey","lightgrey","lightgrey","lightgrey","lightgrey","lightgrey","lightgrey","lightgrey","lightgrey","lightgrey","lightgrey","lightgrey","lightgrey","lightgrey","lightgrey","lightgrey","lightgrey","lightgrey","lightgrey","lightgrey","lightgrey","lightgrey","lightgrey","lightgrey","lightgrey","lightgrey","lightgrey","lightgrey","lightgrey","lightgrey","lightgrey","lightgrey","lightgrey","lightgrey","lightgrey","lightgrey","lightgrey","lightgrey","lightgrey","lightgrey","lightgrey","lightgrey","lightgrey","lightgrey","lightgrey","lightgrey","lightgrey","lightgrey","lightgrey","lightgrey","lightgrey","lightgrey","lightgrey","lightgrey","lightgrey","lightgrey","lightgrey","lightgrey","lightgrey","lightgrey","lightgrey","lightgrey","lightgrey","lightgrey","lightgrey","lightgrey","lightgrey","lightgrey","lightgrey","lightgrey","lightgrey","lightgrey","lightgrey","lightgrey","lightgrey","lightgrey","lightgrey","lightgrey","lightgrey","lightgrey","lightgrey","lightgrey","lightgrey","lightgrey","lightgrey","lightgrey","lightgrey","lightgrey","lightgrey","lightgrey","lightgrey","lightgrey","lightgrey","lightgrey","lightgrey","lightgrey","lightgrey","lightgrey","lightgrey","lightgrey","lightgrey","lightgrey","lightgrey","lightgrey","lightgrey","lightgrey","lightgrey","lightgrey","lightgrey","lightgrey","lightgrey","lightgrey","lightgrey","lightgrey","lightgrey","lightgrey","lightgrey","lightgrey","lightgrey","lightgrey","lightgrey","lightgrey","lightgrey","lightgrey","lightgrey","lightgrey","lightgrey","lightgrey","lightgrey","lightgrey","lightgrey","lightgrey","lightgrey","lightgrey","lightgrey","lightgrey","lightgrey","lightgrey","lightgrey","lightgrey","lightgrey","lightgrey","lightgrey","lightgrey","lightgrey","lightgrey","lightgrey","lightgrey","lightgrey","lightgrey","lightgrey","lightgrey","lightgrey","lightgrey","lightgrey","lightgrey","lightgrey","lightgrey","lightgrey","lightgrey","lightgrey","lightgrey","lightgrey","lightgrey","lightgrey","lightgrey","lightgrey","lightgrey","lightgrey","lightgrey","lightgrey","lightgrey","lightgrey","lightgrey","lightgrey","lightgrey","lightgrey","lightgrey","lightgrey","lightgrey","lightgrey","lightgrey","lightgrey","lightgrey","lightgrey","lightgrey","lightgrey","lightgrey","lightgrey","lightgrey","lightgrey","lightgrey","lightgrey","lightgrey","lightgrey","lightgrey","lightgrey","lightgrey","lightgrey","lightgrey","lightgrey","lightgrey","lightgrey","lightgrey","lightgrey","lightgrey","lightgrey","lightgrey","lightgrey","lightgrey","lightgrey","lightgrey","lightgrey","lightgrey","lightgrey","lightgrey","lightgrey","lightgrey","lightgrey","lightgrey","lightgrey","lightgrey","lightgrey","lightgrey","lightgrey","lightgrey","lightgrey","lightgrey","lightgrey","lightgrey","lightgrey","lightgrey","lightgrey","lightgrey","lightgrey","lightgrey","lightgrey","lightgrey","lightgrey","lightgrey","lightgrey","lightgrey","lightgrey","lightgrey","lightgrey","lightgrey","lightgrey","lightgrey","lightgrey","lightgrey","lightgrey","lightgrey","lightgrey","lightgrey","lightgrey","lightgrey","lightgrey","lightgrey","lightgrey","lightgrey","lightgrey","lightgrey","lightgrey","lightgrey","lightgrey","lightgrey","lightgrey","lightgrey","lightgrey","lightgrey","lightgrey","lightgrey","lightgrey","lightgrey","lightgrey","lightgrey","lightgrey","lightgrey","lightgrey","lightgrey","lightgrey","lightgrey","lightgrey","lightgrey","lightgrey","lightgrey","lightgrey","lightgrey","lightgrey","lightgrey","lightgrey","lightgrey","lightgrey","lightgrey","lightgrey","lightgrey","lightgrey","lightgrey","lightgrey","lightgrey","lightgrey","lightgrey","lightgrey","lightgrey","lightgrey","lightgrey","lightgrey","lightgrey","lightgrey","lightgrey","lightgrey","lightgrey","lightgrey","lightgrey","lightgrey","lightgrey","lightgrey","lightgrey","lightgrey","lightgrey","lightgrey","lightgrey","lightgrey","lightgrey","lightgrey","lightgrey","lightgrey","lightgrey","lightgrey","lightgrey","lightgrey","lightgrey","lightgrey","lightgrey","lightgrey","lightgrey","lightgrey","lightgrey","lightgrey","lightgrey","lightgrey","lightgrey","lightgrey","lightgrey","lightgrey","lightgrey","lightgrey","lightgrey","lightgrey","lightgrey","lightgrey","lightgrey","lightgrey","lightgrey","lightgrey","lightgrey","lightgrey","lightgrey","lightgrey","lightgrey","lightgrey","lightgrey","lightgrey","lightgrey","lightgrey","lightgrey","lightgrey","lightgrey","lightgrey","lightgrey","lightgrey","lightgrey","lightgrey","lightgrey","lightgrey","lightgrey","lightgrey","lightgrey","lightgrey","lightgrey","lightgrey","lightgrey","lightgrey","lightgrey","lightgrey","lightgrey","lightgrey","lightgrey","lightgrey","lightgrey","lightgrey","lightgrey","lightgrey","lightgrey","lightgrey","lightgrey","lightgrey","lightgrey"]},"nodes":{"name":["Aberra D","Abod A","Abramova S","Albuquerque DR","Alves TCA","Aoki T","Arruda R","Astolfi P","Badiale-Furlong E","Ballois N","Balmas V","Barros G","Bec S","Belzile F","Bettucci L","Bjørnstad Å","Boutigny A-L","Brankovics B","Broz K","Brule-Babel A","Busman M","Cacciola OS","Calero N","Carter J","Casper HH","Castañares E","Catalan CAN","Chen W","Chen WQ","Chulze SN","Ciliato ML","Clear R","Clear RM","Cowger C","Del Ponte EM","Díaz CG","Dinolfo MI","Dong Y","Elmer W","Farman M","Farnochi MC","Feng J","Fernando WGD","Ferreira FD","Flett B","Gaba D","Gagkaeva T","Gale LR","Gale SW","Garmendia G","Gauthier V","Geiser DM","Gilbert J","Gomes LB","Gonzalez V","Guo C","Guo JG","H. Suga","Harrison SA","Hershman D","Hyakumachi M","Iancu G","Ioos R","Jin SL","Kageyama K","Karugia GW","Kelly A","Kelly AC","Kimura M","Kistler HC","Klemsdal SS","Koizumi S","Kuhnem PR","Lamprecht SC","Lee T","Leslie JF","Liang JM","Logrieco AF","Luo W","Ma ZH","Machado FJ","Machinski Junior M","McCormick S","McCormick SP","Meca G","Miedaner T","Milus EA","Mionetto A","Miyasaka A","Möller PA","Moraes MG","Moretti A","Nakajima T","Nicholson P","Nicolli CP","Nowicki TW","O’Donnell K","Obanor F","Orwig N","Oviedo MS","Palazzini JM","Pan D","Patriarca A","Patrick S","Pereyra S","Petruzzella AL","Pinto VF","Ploper LD","Proctor RH","Ramirez ML","Reartes DS","Reynoso MM","Rodríguez-Haralambides A","Rooney AP","Sampietro DA","Santos J dos","Sarver BAJ","Schmale III DG","Schneider L","Scoz LB","Silva CN","Somma S","Spolti P","Starkey DE","Stenglein SA","Stumpf R","Suga H","Sulyok M","Tacke BK","Tamburic-Ilincic L","Tekauz A","Tessmann DJ","Tomimura K","Torres A","Torres AM","Tóth B","Turkington TK","Umpiérrez-Failache M","Vaillancourt LJ","Van Coller GJ","Van der Lee T","Van der Lee TAJ","Van Diepeningen AD","Van Sanford D","Varga J","Vattuone MA","Vero S","Viljoen A","von der Ohe C","Waalwijk C","Ward TJ","Xayamongkhon H","Xu J","Xu JS","Yerkovich N","Yli-Mattila T","Zanon MSA","Zhang H","Zhang Y"],"group":[1,1,1,1,1,1,1,1,1,1,1,1,1,1,1,1,1,1,1,1,1,1,1,1,1,1,1,1,1,1,1,1,1,1,1,1,1,1,1,1,1,1,1,1,1,1,1,1,1,1,1,1,1,1,1,1,1,1,1,1,1,1,1,1,1,1,1,1,1,1,1,1,1,1,1,1,1,1,1,1,1,1,1,1,1,1,1,1,1,1,1,1,1,1,1,1,1,1,1,1,1,1,1,1,1,1,1,1,1,1,1,1,1,1,1,1,1,1,1,1,1,1,1,1,1,1,1,1,1,1,1,1,1,1,1,1,1,1,1,1,1,1,1,1,1,1,1,1,1,1,1,1,1,1,1,1,1,1,1],"nodesize":[8,8,8,8,8,8,8,8,8,8,8,8,8,8,8,8,8,8,8,8,8,8,8,8,8,8,8,8,8,8,8,8,8,8,8,8,8,8,8,8,8,8,8,8,8,8,8,8,8,8,8,8,8,8,8,8,8,8,8,8,8,8,8,8,8,8,8,8,8,8,8,8,8,8,8,8,8,8,8,8,8,8,8,8,8,8,8,8,8,8,8,8,8,8,8,8,8,8,8,8,8,8,8,8,8,8,8,8,8,8,8,8,8,8,8,8,8,8,8,8,8,8,8,8,8,8,8,8,8,8,8,8,8,8,8,8,8,8,8,8,8,8,8,8,8,8,8,8,8,8,8,8,8,8,8,8,8,8,8]},"options":{"NodeID":"name","Group":"group","colourScale":"d3.scaleOrdinal(['black'])","fontSize":13,"fontFamily":"Arial","clickTextSize":32.5,"linkDistance":80,"linkWidth":"'1.5px'.toString()","charge":-200,"opacity":1,"zoom":true,"legend":false,"arrows":false,"nodesize":true,"radiusCalculation":"d.nodesize","bounded":false,"opacityNoHover":1,"clickAction":null}},"evals":[],"jsHooks":[]}</script>
+<script type="application/htmlwidget-sizing" data-for="htmlwidget-3ba6124009e966e28398">{"viewer":{"width":450,"height":350,"padding":10,"fill":true},"browser":{"width":960,"height":500,"padding":10,"fill":true}}</script>
 </body>
 </html>

diff --git a/website/article.html b/website/article.html
@@ -332,8 +332,7 @@ div.tocify {
 
 <p><strong>Global analysis and online database of the <em>Fusarium graminearum</em> species complex members and chemotypes</strong></p>
 <p><strong>Preliminary list of authors</strong></p>
-<p>Emerson M. Del Ponte, Gláucia M. Moreira<br />
-Departamento de Fitopatologia, Universidade Federal de Viçosa, Viçosa MG Brazil</p>
+<p>NA NA</p>
 <p>Todd J. Ward<br />
 Cees Waalwijk<br />
 Sebastian A. Steinglen<br />
